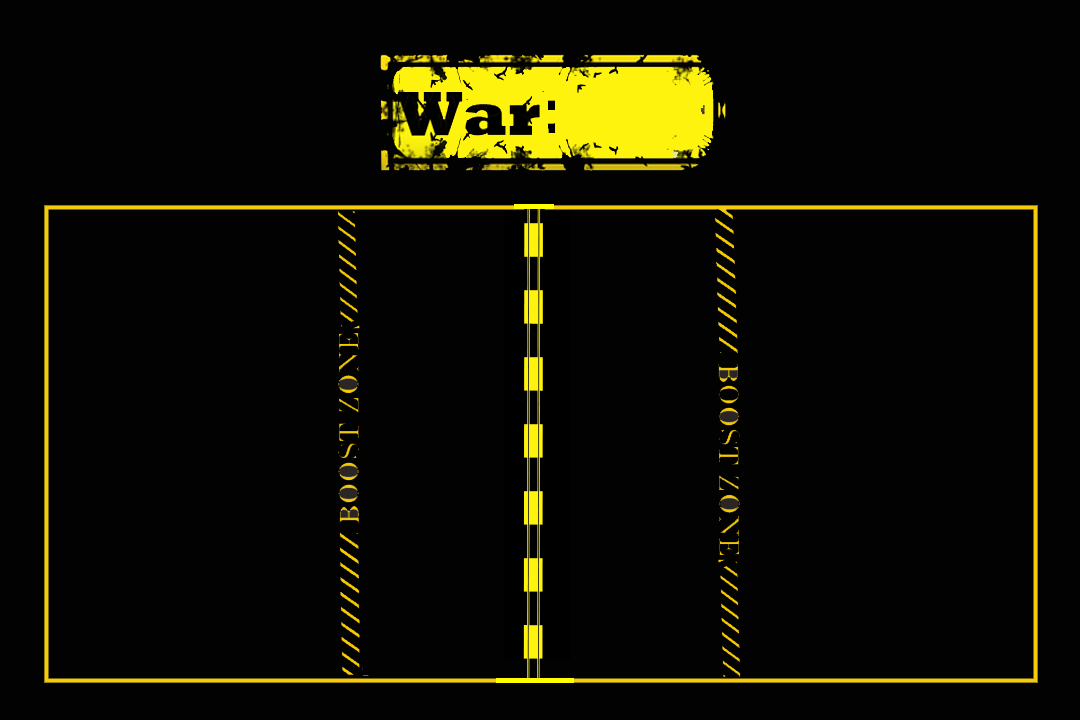
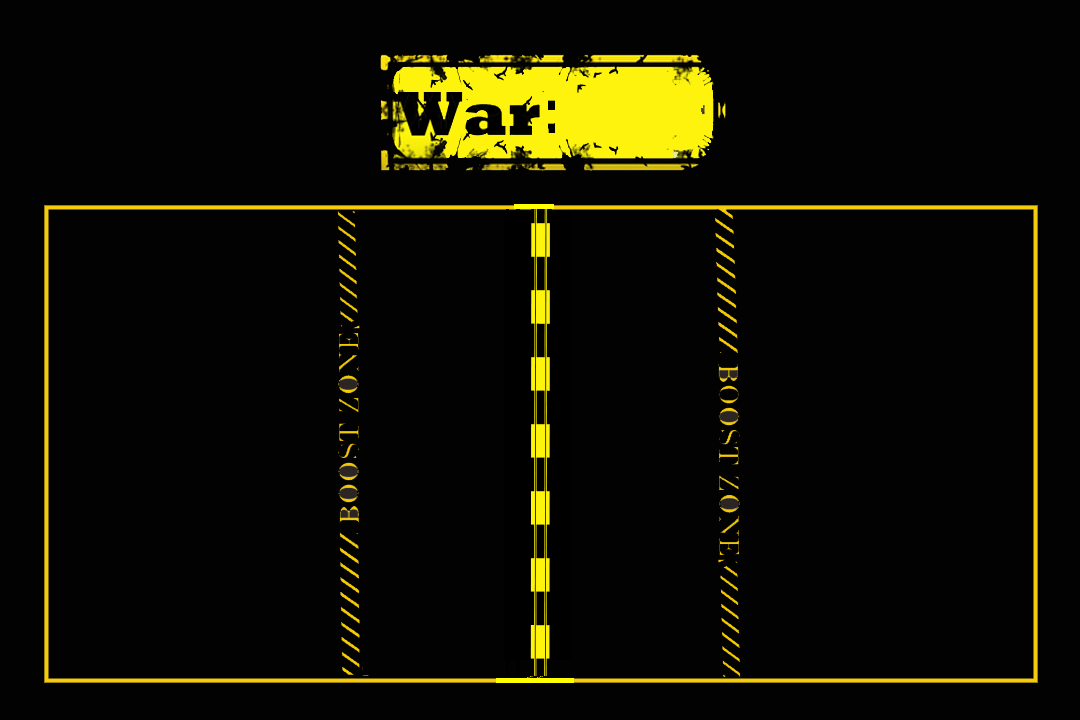
improve game play(ready for game's review!)
the character now can’t stand over the line. Add more way to start
game, player can click or enter to start the game.

Changed region(s): [[0.4583, 0.275, 0.5194, 0.9472]]

diff --git a/src/Player.js b/src/Player.js
@@ -106,7 +106,7 @@ var Player = cc.Sprite.extend({
                     this.temp_x += this.speed;
                     break;
         };
-        if((this.temp_x + this.x) >= 40&& 
+        if((this.temp_x + this.x) >= 55&& 
             (this.temp_x + this.x) <= 480 && 
             (this.temp_y + this.y) > 70 && 
             (this.temp_y + this.y) <= 520 ){
@@ -133,7 +133,7 @@ var Player = cc.Sprite.extend({
                     this.temp_x += this.speed;
                     break;
         };
-        if((this.temp_x + this.x) < 1040 && 
+        if((this.temp_x + this.x) < 1030 && 
             (this.temp_x + this.x) >= 590 && 
             (this.temp_y + this.y) > 70 && 
             (this.temp_y + this.y) <= 520 ){

diff --git a/src/MenuLayer.js b/src/MenuLayer.js
@@ -25,6 +25,7 @@ var MenuLayer = cc.Layer.extend({
 
         this.setTouchEnabled(true);
         this.setTouchMode(1);
+        this.setKeyboardEnabled( true );
     },
     
     clickAnimation: function(){
@@ -38,6 +39,14 @@ var MenuLayer = cc.Layer.extend({
 
     intro: function(){
          cc.AudioEngine.getInstance().playMusic("res/music/introMusic.mp3");
+    },
+
+    onKeyDown: function( e ) {
+        console.log(e);
+        if(e == 13){
+             var director = cc.Director.getInstance();
+             director.replaceScene(cc.TransitionFade.create(1.5, new PreGameScene()));
+        }
     },
 
     onTouchBegan:function( touch, event ) {

diff --git a/cocos2d.js b/cocos2d.js
@@ -4,7 +4,7 @@
         COCOS2D_DEBUG: 2, //0 to turn debug off, 1 for basic debug, and 2 for full debug
         box2d: false,
         chipmunk: false,
-        showFPS: true,
+        showFPS: false,
         loadExtension: false,
         frameRate: 60,
         renderMode: 1,       //Choose of RenderMode: 0(default), 1(Canvas only), 2(WebGL only)
